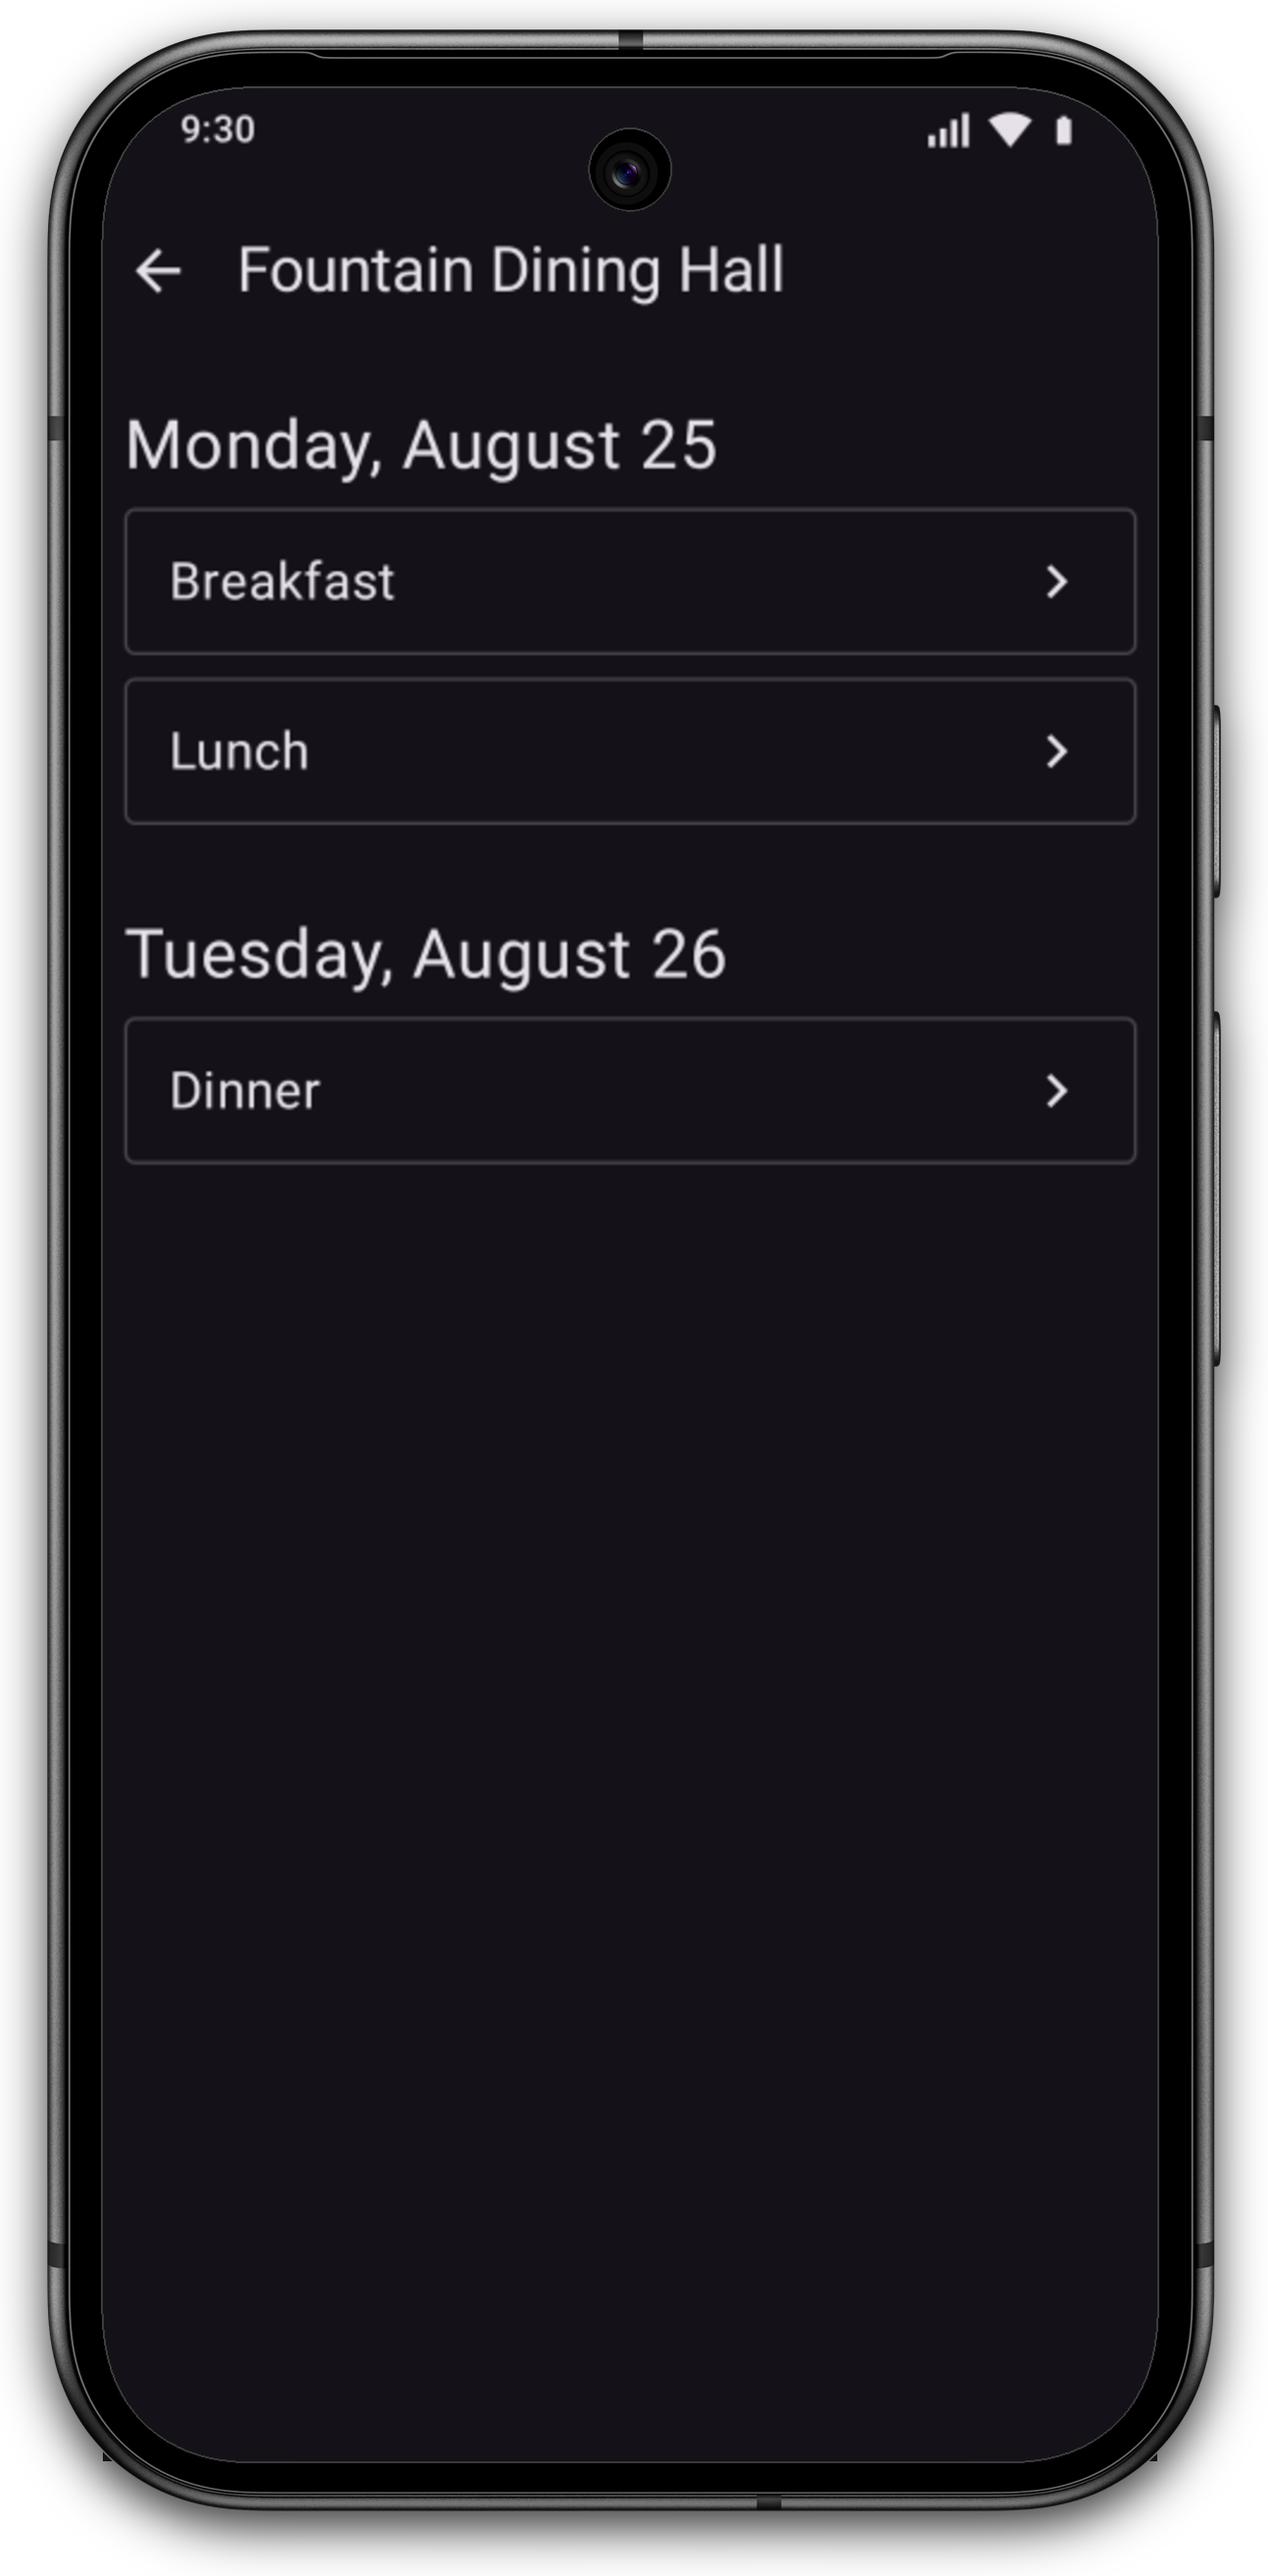
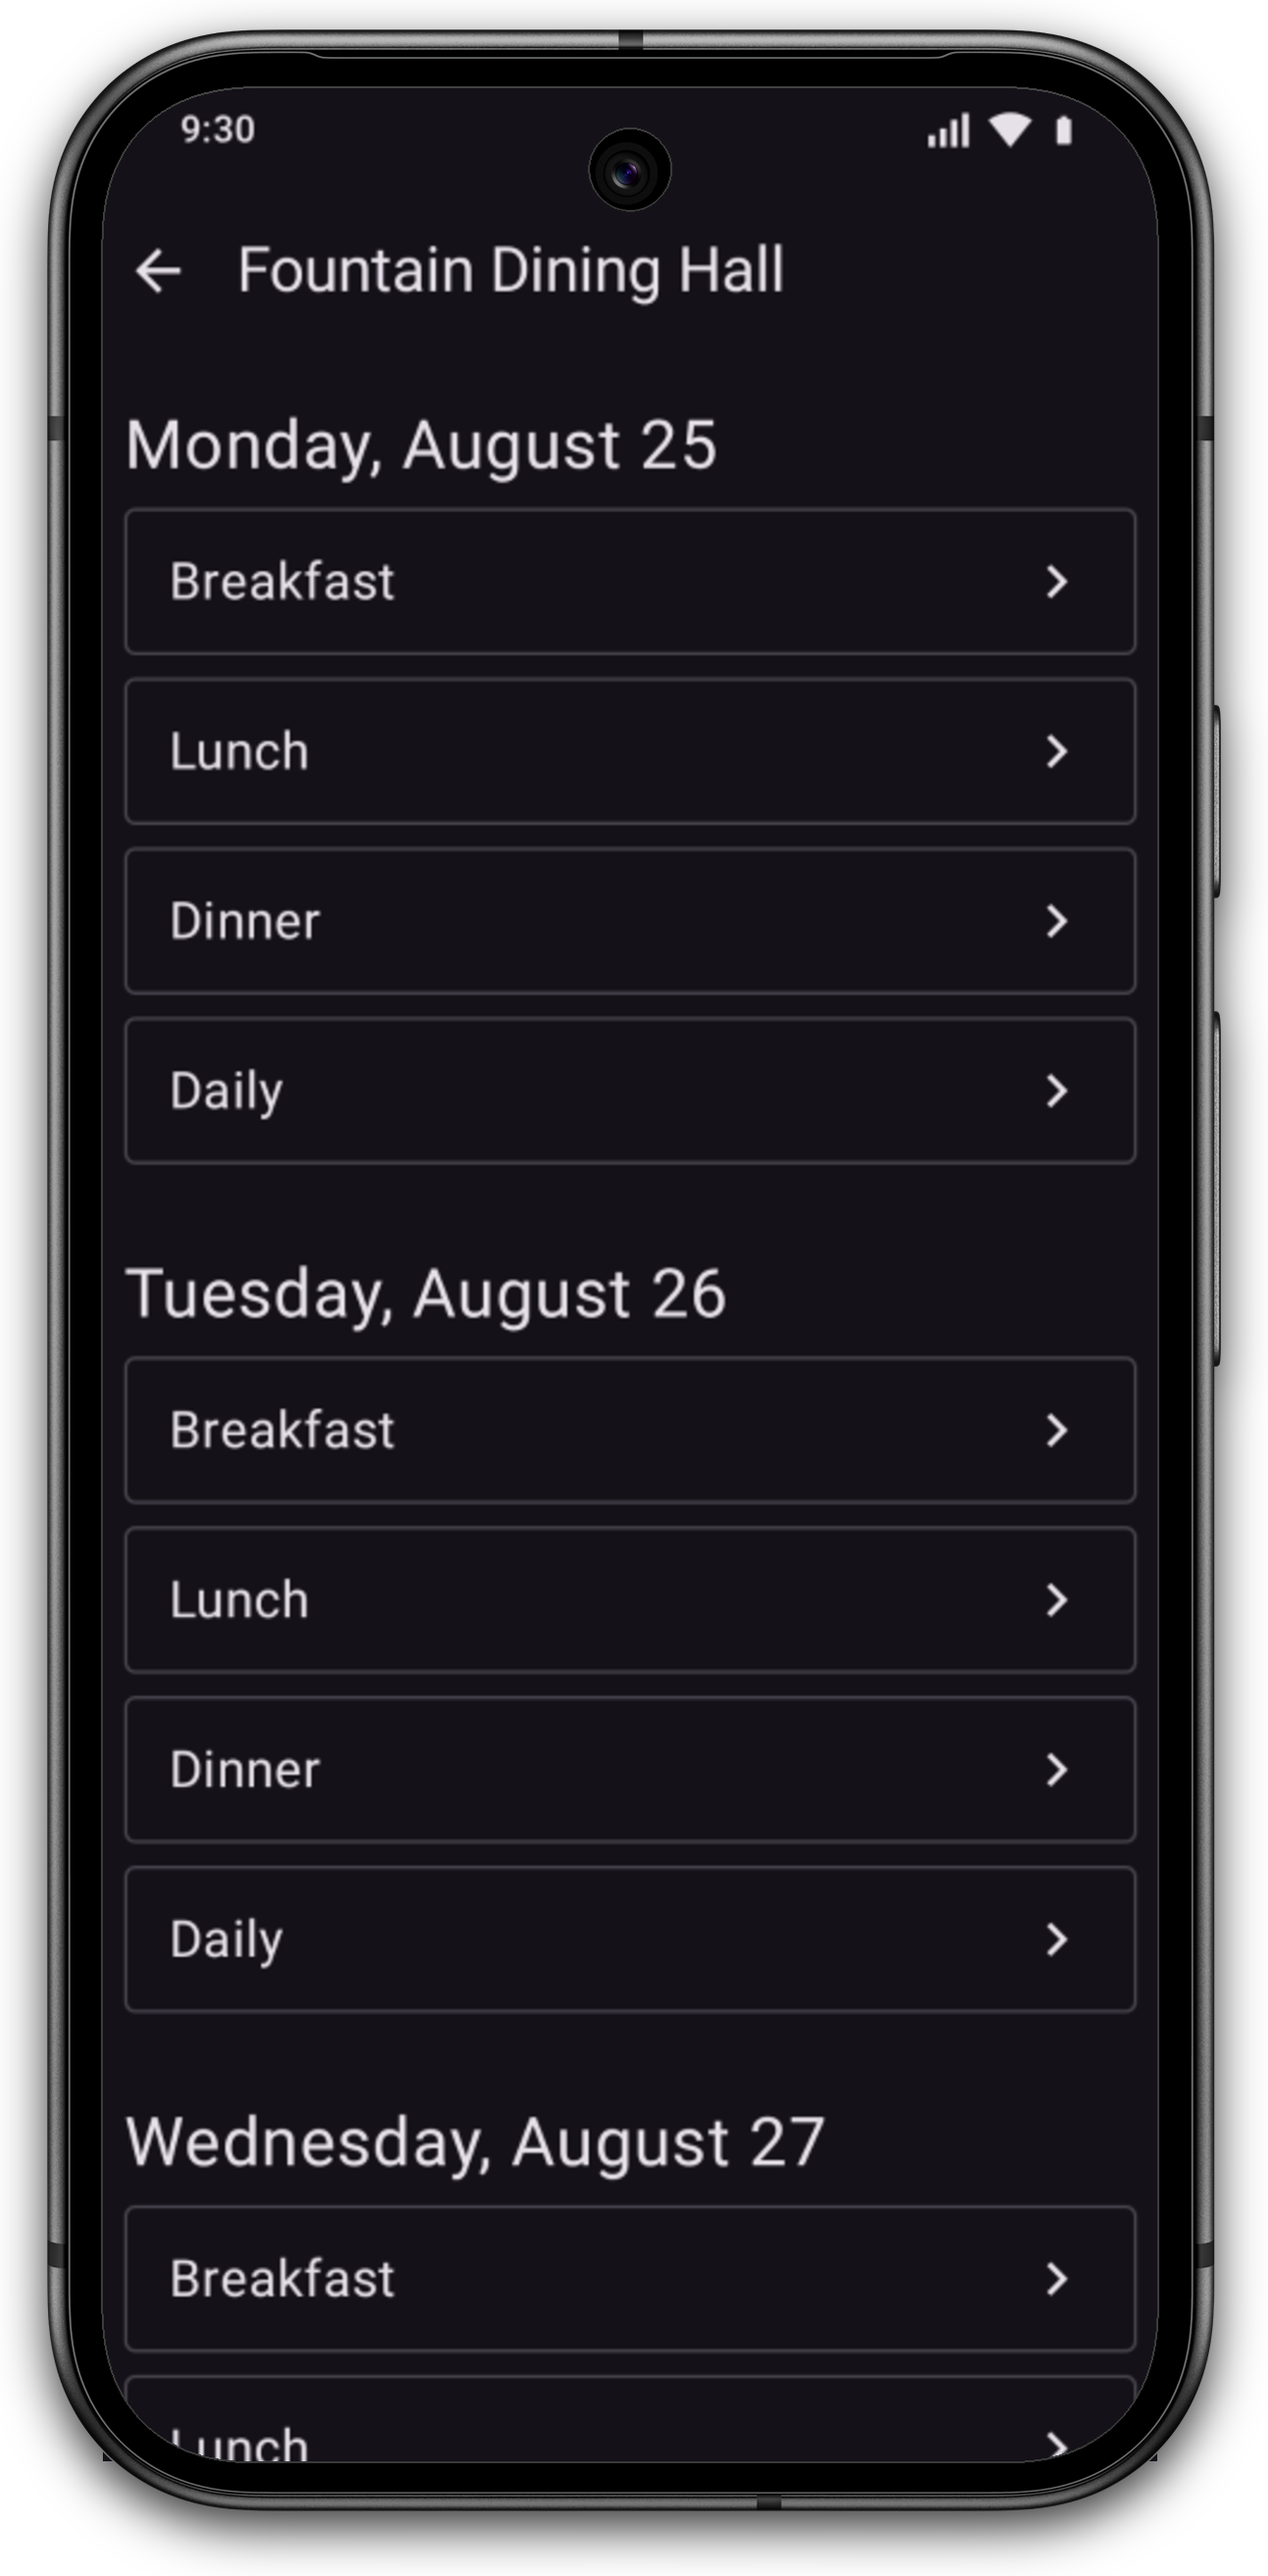
Fix screenshot path and add some favorite items to the menu screenshot

diff --git a/android/app/src/test/java/org/appdevncsu/foodfinder/ReadmeScreenshotsTest.kt b/android/app/src/test/java/org/appdevncsu/foodfinder/ReadmeScreenshotsTest.kt
@@ -155,6 +155,7 @@ class ReadmeScreenshotsTest {
                     state = MenuViewModel.UiState(
                         loading = false,
                         sections = sampleSections,
+                        favoriteNames = sampleFavoriteItemNames,
                     ),
                 )
             }
@@ -174,6 +175,7 @@ class ReadmeScreenshotsTest {
                     state = MenuViewModel.UiState(
                         loading = false,
                         sections = sampleSections,
+                        favoriteNames = sampleFavoriteItemNames,
                     ),
                 )
             }
@@ -480,6 +482,11 @@ private val sampleMenus = MenuList(
         Menu(name = "Dinner", id = 10039400, date = "2025-08-27", locationId = 1),
         Menu(name = "Daily", id = 10039402, date = "2025-08-27", locationId = 1),
     ),
+)
+
+private val sampleFavoriteItemNames = setOf(
+    "pesto rubbed chicken breast",
+    "garlic green beans",
 )
 
 private val sampleSections = SectionList(
